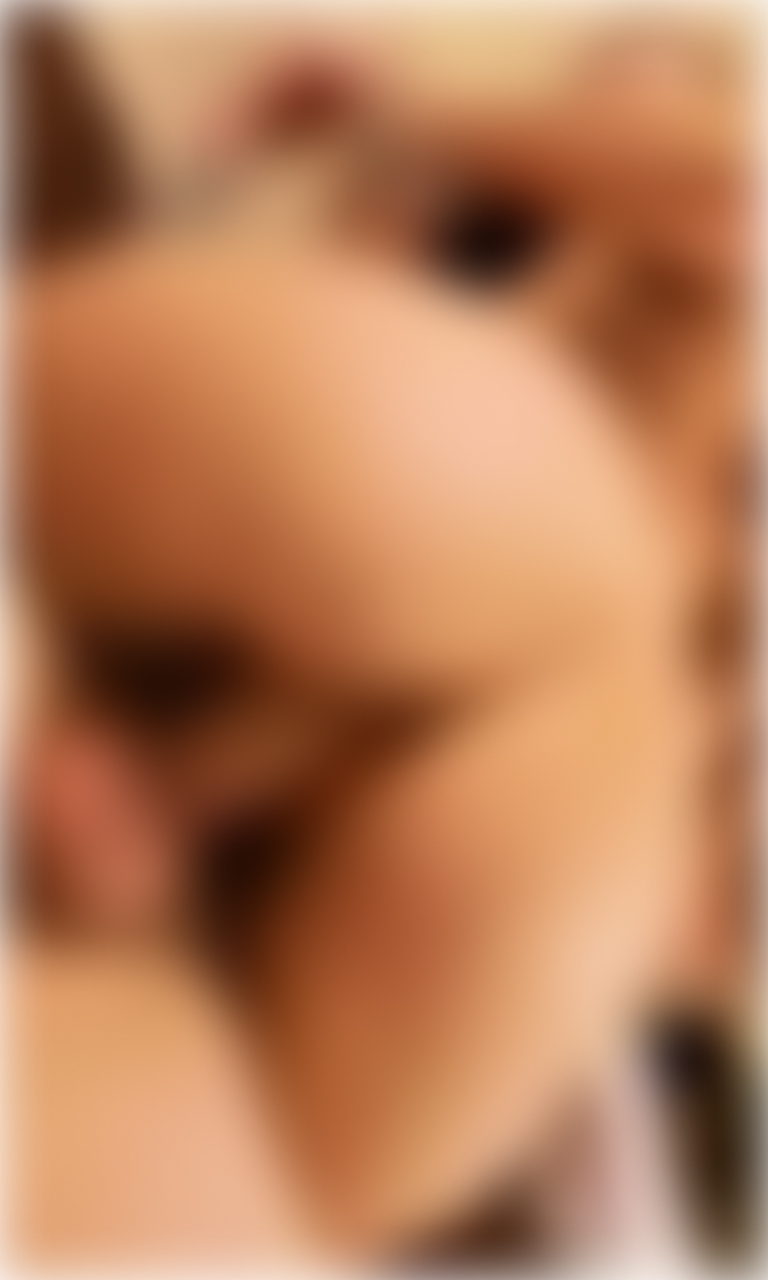
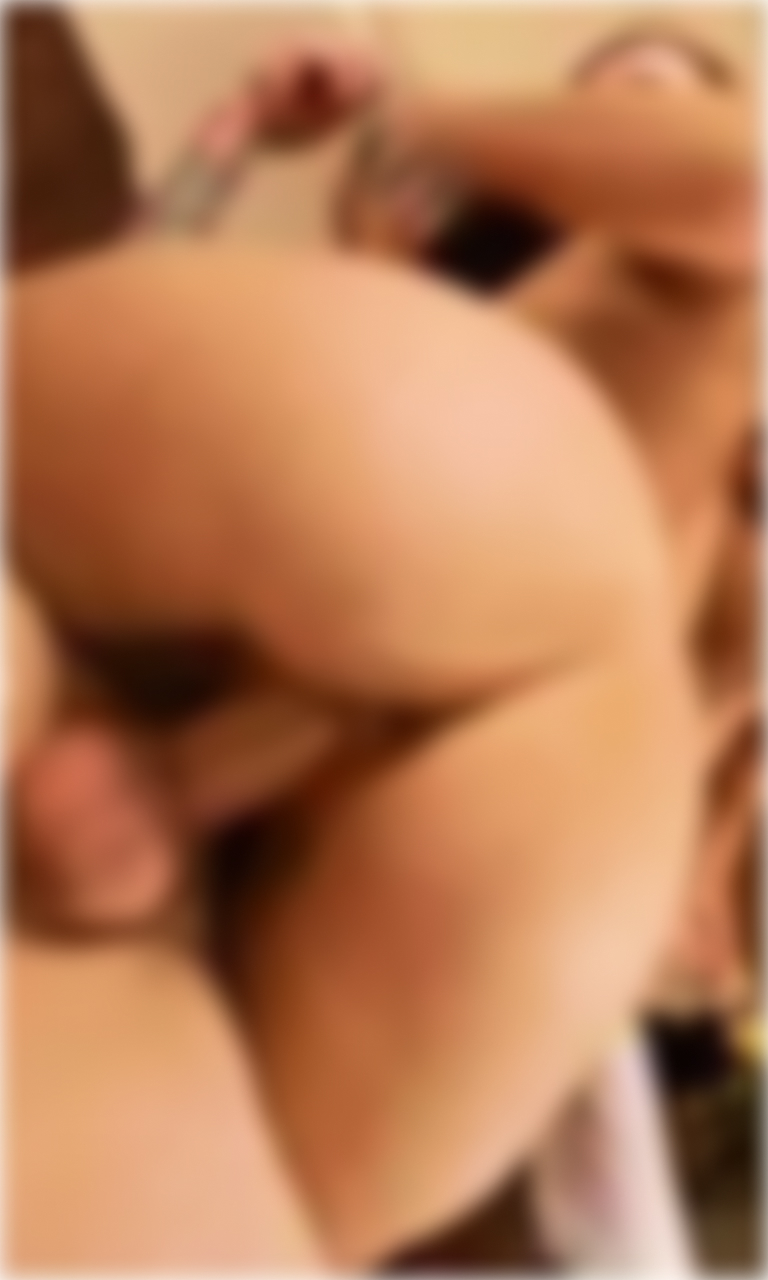
Correcciones post-pruebas del módulo del "Siervo"

diff --git a/sos.siervo/src/recompensa.js b/sos.siervo/src/recompensa.js
@@ -21,10 +21,11 @@
  */
 function Feed(sos, contenedor) {
     const S = sos.socorrista();
-    const _contenedor = contenedor;
-    const _recompensas = [];
-    const _incentivos  = [];
-    const _reinicio    = Reinicio();
+    const _contenedor    = contenedor;
+    const _recompensas   = [];
+    const _incentivos    = [];
+    const _reinicio      = Reinicio();
+    const _imagenObscena = __IMAGENES_INCENTIVOS__[Math.floor(S.O.S.azar(0, __IMAGENES_INCENTIVOS__.length))];
 
     // CREACIÓN DE INCENTIVOS
     // Definición de los incentivos: "imágenes-cebos" que incitan
@@ -239,7 +240,7 @@ function Feed(sos, contenedor) {
             _escenificador = S.O.S.crearEscena(_elementoHTML);
             _escenificador.alCargar((S) => {
                 _fragmentShader  = S.O.S.cargarShader('/shaders/incentivo.frag');
-                _imagenIncentivo = S.O.S.cargarTextura2D('imagenes/incentivo_01.jpg');
+                _imagenIncentivo = S.O.S.cargarTextura2D(_imagenObscena);
             });
             _escenificador.alComenzar((S) => {
                 S.O.S.fragmentShader(_fragmentShader);
@@ -255,14 +256,14 @@ function Feed(sos, contenedor) {
                 // están más pixeladas. Cuanto mayor es el "scrolling" el 
                 // pixelado se reduce, pero aumenta el "blur" de forma tal
                 // que nunca se pueda ver la imagen realmente.
-                let _blur  = Math.log(_gradoIncentivo + 1) * 15;
+                let _blur  = Math.log(_gradoIncentivo + 2) * 10;
                 let _nivel = _gradoIncentivo < 3 ? 13 : 
                             _gradoIncentivo < 6 ? 11 : 
                             _gradoIncentivo < 10 ? 8 : 
                             _gradoIncentivo < 36 ? 6 : 
                             _gradoIncentivo < 50 ? 5.5 :
                             _gradoIncentivo < 60 ? 5 : 4.5;
-                let _escala = S.O.S.mapear(Math.max(240 - (_gradoIncentivo * _nivel), 1), 1, 240, 8, 120);
+                let _escala = S.O.S.mapear(Math.max(240 - (_gradoIncentivo * _nivel), 1), 1, 240, 7, 100);
                 S.O.S.uniform("u_pixelSize", _escala, _escala);
                 S.O.S.uniform("u_blurAmount", _blur);
                 S.O.S.desplegar();

diff --git a/sos.siervo/vite.config.js b/sos.siervo/vite.config.js
@@ -12,7 +12,16 @@ export default defineConfig(({ mode }) => {
       __OSC_MENSAJE_CONEXION__      : JSON.stringify(env.OSC_MENSAJE_CONEXION),
       __OSC_MENSAJE_ARROBAR__       : JSON.stringify(env.OSC_MENSAJE_ARROBAR),
       __OSC_MENSAJE_OFRENDAR__      : JSON.stringify(env.OSC_MENSAJE_OFRENDAR),
-      __CANTIDAD_INCENTIVOS__       : 3
+      __CANTIDAD_INCENTIVOS__       : 3,
+      __IMAGENES_INCENTIVOS__       : ['/imagenes/incentivo_01.jpg',
+                                    '/imagenes/incentivo_02.jpg',
+                                    '/imagenes/incentivo_03.jpg',
+                                    '/imagenes/incentivo_04.jpg',
+                                    '/imagenes/incentivo_05.jpg',
+                                    '/imagenes/incentivo_06.jpg',
+                                    '/imagenes/incentivo_07.jpg',
+                                    '/imagenes/incentivo_08.jpg',
+                                    '/imagenes/incentivo_09.jpg']
     },
     server: {
         open: true,
